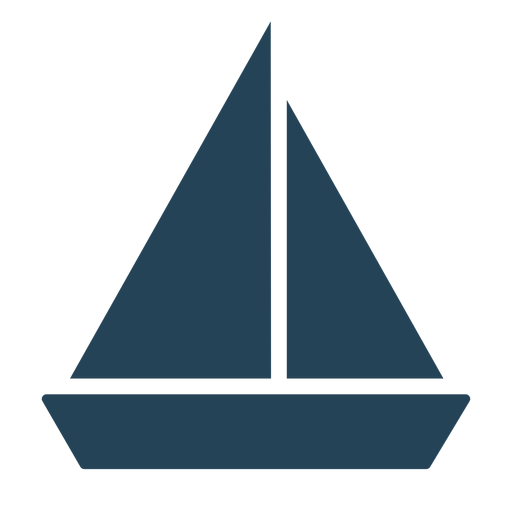
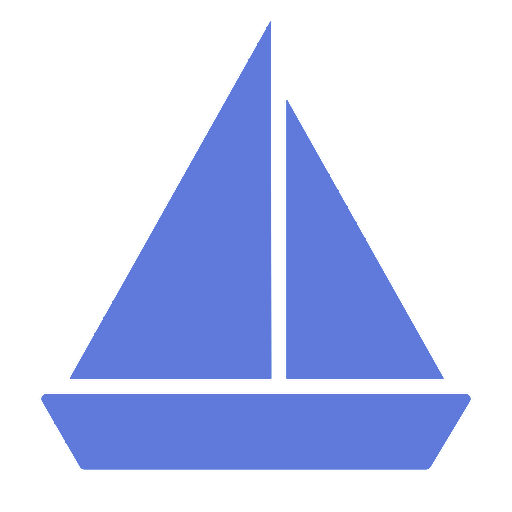
new dark mode style

diff --git a/server/public/css/style.css b/server/public/css/style.css
@@ -9,9 +9,13 @@
 
   
 /* =========================================== */
-/* GLOBAL VARIABLES*/
+/* COLORES */
 /* =========================================== */
 :root {
+    --color_1: #26292B;
+    --color_2: #2E3239;
+    --color_3: #5F7ADB;
+    --color_4: #A2B2EE;
     --color_white: #FFFFFF;
     --color_lightGray1: #F1F5FB;
     --color_lightGray2: #DBDDE3;
@@ -23,6 +27,87 @@
 }
 
 /* =========================================== */
+/* FUENTES */
+/* =========================================== */
+
+/* latin-ext */
+@font-face {
+    font-family: 'Lato';
+    font-style: italic;
+    font-weight: 400;
+    src: local('Lato Italic'), local('Lato-Italic'), url(https://fonts.gstatic.com/s/lato/v15/S6u8w4BMUTPHjxsAUi-qNiXg7eU0.woff2) format('woff2');
+    unicode-range: U+0100-024F, U+0259, U+1E00-1EFF, U+2020, U+20A0-20AB, U+20AD-20CF, U+2113, U+2C60-2C7F, U+A720-A7FF;
+}
+/* latin */
+@font-face {
+    font-family: 'Lato';
+    font-style: italic;
+    font-weight: 400;
+    src: local('Lato Italic'), local('Lato-Italic'), url(https://fonts.gstatic.com/s/lato/v15/S6u8w4BMUTPHjxsAXC-qNiXg7Q.woff2) format('woff2');
+    unicode-range: U+0000-00FF, U+0131, U+0152-0153, U+02BB-02BC, U+02C6, U+02DA, U+02DC, U+2000-206F, U+2074, U+20AC, U+2122, U+2191, U+2193, U+2212, U+2215, U+FEFF, U+FFFD;
+}
+/* latin-ext */
+@font-face {
+    font-family: 'Lato';
+    font-style: italic;
+    font-weight: 700;
+    src: local('Lato Bold Italic'), local('Lato-BoldItalic'), url(https://fonts.gstatic.com/s/lato/v15/S6u_w4BMUTPHjxsI5wq_FQftx9897sxZ.woff2) format('woff2');
+    unicode-range: U+0100-024F, U+0259, U+1E00-1EFF, U+2020, U+20A0-20AB, U+20AD-20CF, U+2113, U+2C60-2C7F, U+A720-A7FF;
+}
+/* latin */
+@font-face {
+    font-family: 'Lato';
+    font-style: italic;
+    font-weight: 700;
+    src: local('Lato Bold Italic'), local('Lato-BoldItalic'), url(https://fonts.gstatic.com/s/lato/v15/S6u_w4BMUTPHjxsI5wq_Gwftx9897g.woff2) format('woff2');
+    unicode-range: U+0000-00FF, U+0131, U+0152-0153, U+02BB-02BC, U+02C6, U+02DA, U+02DC, U+2000-206F, U+2074, U+20AC, U+2122, U+2191, U+2193, U+2212, U+2215, U+FEFF, U+FFFD;
+}
+/* latin-ext */
+@font-face {
+    font-family: 'Lato';
+    font-style: normal;
+    font-weight: 400;
+    src: local('Lato Regular'), local('Lato-Regular'), url(https://fonts.gstatic.com/s/lato/v15/S6uyw4BMUTPHjxAwXiWtFCfQ7A.woff2) format('woff2');
+    unicode-range: U+0100-024F, U+0259, U+1E00-1EFF, U+2020, U+20A0-20AB, U+20AD-20CF, U+2113, U+2C60-2C7F, U+A720-A7FF;
+}
+/* latin */
+@font-face {
+    font-family: 'Lato';
+    font-style: normal;
+    font-weight: 400;
+    src: local('Lato Regular'), local('Lato-Regular'), url(https://fonts.gstatic.com/s/lato/v15/S6uyw4BMUTPHjx4wXiWtFCc.woff2) format('woff2');
+    unicode-range: U+0000-00FF, U+0131, U+0152-0153, U+02BB-02BC, U+02C6, U+02DA, U+02DC, U+2000-206F, U+2074, U+20AC, U+2122, U+2191, U+2193, U+2212, U+2215, U+FEFF, U+FFFD;
+}
+/* latin-ext */
+@font-face {
+    font-family: 'Lato';
+    font-style: normal;
+    font-weight: 700;
+    src: local('Lato Bold'), local('Lato-Bold'), url(https://fonts.gstatic.com/s/lato/v15/S6u9w4BMUTPHh6UVSwaPGQ3q5d0N7w.woff2) format('woff2');
+    unicode-range: U+0100-024F, U+0259, U+1E00-1EFF, U+2020, U+20A0-20AB, U+20AD-20CF, U+2113, U+2C60-2C7F, U+A720-A7FF;
+}
+/* latin */
+@font-face {
+    font-family: 'Lato';
+    font-style: normal;
+    font-weight: 700;
+    src: local('Lato Bold'), local('Lato-Bold'), url(https://fonts.gstatic.com/s/lato/v15/S6u9w4BMUTPHh6UVSwiPGQ3q5d0.woff2) format('woff2');
+    unicode-range: U+0000-00FF, U+0131, U+0152-0153, U+02BB-02BC, U+02C6, U+02DA, U+02DC, U+2000-206F, U+2074, U+20AC, U+2122, U+2191, U+2193, U+2212, U+2215, U+FEFF, U+FFFD;
+}
+
+heading {
+    font-family: 'Lato', Verdana, Helvetica, sans-serif;
+    font-size: 24px;
+}
+
+subheading {
+    font-family: 'Lato', Verdana, Helvetica, sans-serif;
+    font-size: 18px;
+}
+
+
+
+/* =========================================== */
 /* GENERAL*/
 /* =========================================== */
 * {
@@ -30,17 +115,28 @@
     margin: 0%;
 }
 
+body,
+td,
+th,
+tr,
+p,
+a {
+    font-family: 'Lato', Verdana, Helvetica, sans-serif;
+    font-size: 16px;
+}
 
 body {
-    font-family: monospace, sans-serif;
+    font-family: 'Lato', Verdana, Helvetica, sans-serif;
     font-size: 18px;
+    color: var(--color_white);
+    background-color: var(--color_1);
 }
 
 /* =========================================== */
 /* HEADER */
 /* =========================================== */
 header{
-    background-color: var(--color_lightGray1);
+    background-color: var(--color_2);
 
     border-bottom-left-radius: 15px;
     border-bottom-right-radius: 15px;
@@ -101,6 +197,7 @@ main {
 #rtaMap {
     height: 95%;
     width: 100%;
+    border-radius: 15px;
 }
 
 /* =========================================== */
@@ -166,13 +263,13 @@ td {
     height: 240px;
     width: 240px;
     border-radius: 50%;
-    background-color: #fff;
+    background-color: var(--color_1);
 }
 .battery-value{
     position: relative;
     font-size: 40px;
     font-weight: 600;
-    color: var(--color_DarkGray2);
+    color: var(--color_white);
 }
 
 .battery-container > .text{
@@ -216,14 +313,14 @@ td {
     height: 100px;
     width: 100px;
     border-radius: 50%;
-    background-color: #fff;
+    background-color: var(--color_1);
 }
 
 .current-value{
     position: relative;
     font-size: 25px;
     font-weight: 600;
-    color: var(--color_DarkGray2);
+    color: var(--color_white);
 }
 
 .current-container > .text{

diff --git a/server/public/js/data-script.js b/server/public/js/data-script.js
@@ -1,44 +1,3 @@
-/*
-let batteryStartValue = 100,    
-    batteryEndValue = 20,    
-    batterySpeed = 200,
-    currentStartValue1 = 2,
-    currentStartValue2 = 2,
-    currentMin = 2,
-    currentMax = 12,
-    currentSpeed = 100,
-    data = 1;
-
-async function get_current() {
-
-    currentStartValue1 = currentStartValue1 + (Math.random()*1.6 - Math.random()*1.5);
-    currentStartValue2 = currentStartValue2 + (Math.random()*1.6 - Math.random()*1.5);
-
-    if(currentStartValue1 < currentMin){currentStartValue1 = currentMin;}
-    if(currentStartValue2 < currentMin){currentStartValue2 = currentMin;}
-
-    document.getElementById('motor1').textContent = `${currentStartValue1.toFixed(2)}A`;
-    currentProgress1.style.background = `conic-gradient(#A7A9AD ${currentStartValue1 * 18}deg, #DBDDE3 0deg)`
-
-    document.getElementById('motor2').textContent = `${currentStartValue2.toFixed(2)}A`;
-    currentProgress2.style.background = `conic-gradient(#A7A9AD ${currentStartValue2 * 18}deg, #DBDDE3 0deg)`
-
-    if(currentStartValue1 > currentMax){currentStartValue1 = currentMax;}
-    if(currentStartValue2 > currentMax){currentStartValue2 = currentMax;}
-}
-
-async function get_battery(){
-    batteryStartValue = batteryStartValue - Math.random()*1.6;
-
-    document.getElementById('battery').textContent = `${batteryStartValue.toFixed(2)}%`;
-    batteryProgress.style.background = `conic-gradient(#A7A9AD ${batteryStartValue * 3.6}deg, #DBDDE3 0deg)`
-
-    if(batteryStartValue < batteryEndValue){batteryStartValue = batteryEndValue;}
-}*/
-
-//setInterval(get_battery, batterySpeed);    
-//setInterval(get_current, currentSpeed);
-
 const socket = io();
 
 let currentProgress1 = document.getElementById('current1'),
@@ -47,23 +6,22 @@ let currentProgress1 = document.getElementById('current1'),
 
 // Making a map and tiles
 // Setting a higher initial zoom to make effect more obvious
-const mymap = L.map('rtaMap').setView([0, 0], 8);
+const mymap = L.map('rtaMap').setView([0, 0], 13);
 const attribution = '&copy; <a href="https://www.openstreetmap.org/copyright">OpenStreetMap</a> contributors';
 
-const tileUrl = 'https://{s}.tile.openstreetmap.org/{z}/{x}/{y}.png';
+//const tileUrl = 'https://{s}.tile.openstreetmap.org/{z}/{x}/{y}.png';
+const tileUrl = 'https://api.mapbox.com/styles/v1/raxcso/cllbaofvn011401mf4u0bbygx/tiles/256/{z}/{x}/{y}@2x?access_token=pk.eyJ1IjoicmF4Y3NvIiwiYSI6ImNsa3VpNWl6OTBqaW4zZnJ1MndleTA2dWgifQ.vozU5m_2BWE1jFdbHvxPCg';
 const tiles = L.tileLayer(tileUrl, { attribution });
 tiles.addTo(mymap);
 
 // Making a marker with a custom icon
-const issIcon = L.icon({
+const SaildroneIcon = L.icon({
     iconUrl: './img/saildrone.png',
     iconSize: [50, 32],
     iconAnchor: [25, 16]
 });
 
-let marker = L.marker([0, 0], { icon: issIcon }).addTo(mymap);
-
-const api_url = 'https://api.wheretheiss.at/v1/satellites/25544';
+let marker = L.marker([0, 0], { icon: SaildroneIcon }).addTo(mymap);
 
 let firstTime = true;
 
@@ -95,23 +53,3 @@ socket.on('arduino', function(data){
     mymap.setView([data.Lati, data.Long], mymap.getZoom());
     marker.setLatLng([data.Lati, data.Long]);
 });
-
-
-
-/*
-async function getISS() {
-    const response = await fetch(api_url);
-    const data = await response.json();
-    const { latitude, longitude } = data;
-
-    // Always set the view to current lat lon and zoom!
-    mymap.setView([latitude, longitude], mymap.getZoom());
-    marker.setLatLng([latitude, longitude]);
-
-    //document.getElementById('lat').textContent = latitude.toFixed(2);
-    //document.getElementById('lon').textContent = longitude.toFixed(2);
-}
-
-getISS();
-setInterval(getISS, 1000);
-*/

diff --git a/server/public/index.html b/server/public/index.html
@@ -28,7 +28,7 @@
 
     <header>
         <div class="titulo"> 
-            <h1>Real Time Autonomous Saildrone</h1>
+            <h1>Real Time Autonomous Saildrone - RITA</h1>
         </div>
     </header>
 
@@ -82,7 +82,7 @@
 
     
         <div class="Middle">
-            <h3>RTA Geolocalization</h3>
+            <h3>RITA Localization</h3>
             <!--div class="mapa">
                 <img 
                     src="./img/map.png"
@@ -113,6 +113,7 @@
                         <td>270°</td>
                     </tr>
                 </table>
+                <canvas id="tempChart"></canvas>
             </div>
         </div>
 
@@ -130,9 +131,7 @@
     </footer-->
 
     <!-- JavaScript -->
-    <!--script src="./js/battery-script.js"></script-->
     <script src="./js/data-script.js"></script>
-    <!--script src="./server/index.js"></script-->
 
 </body>
 </html>

diff --git a/server/index.js b/server/index.js
@@ -16,7 +16,7 @@ const SerialPort = require('serialport').SerialPort;
 const { DelimiterParser } = require('@serialport/parser-delimiter');
 
 const port = new SerialPort({
-    path: 'COM11',
+    path: 'COM21',
     baudRate: 115200,
     dataBits: 8,
     stopBits: 1,

diff --git a/README.md b/README.md
@@ -1,3 +1,6 @@
-# RTA-Saildrone-Interface
+# RITA-Saildrone-Interface
 
 Interfaz diseñada para la competencia de Veleros Autónomos organizado por la Marina de Guerra del Perú y la Sociedad Nacional de Industrias.
+
+https://www.youtube.com/watch?v=nZaZ2dB6pow
+https://leafletjs.com
